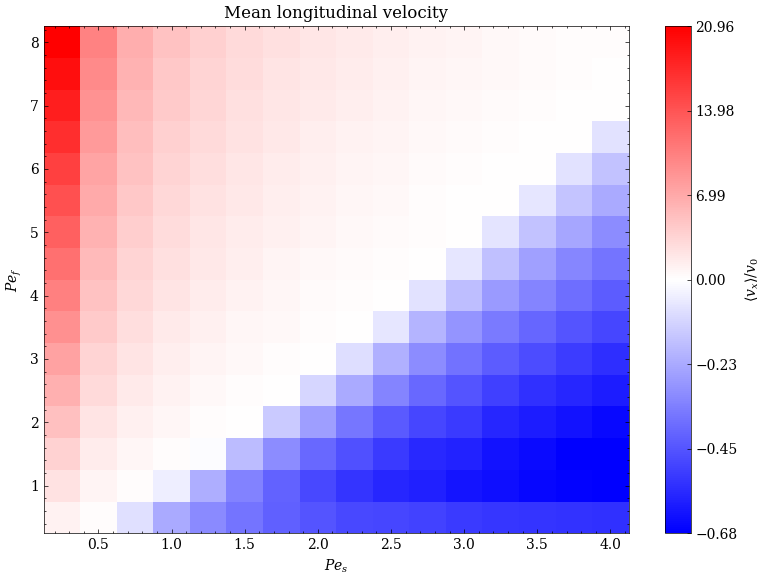
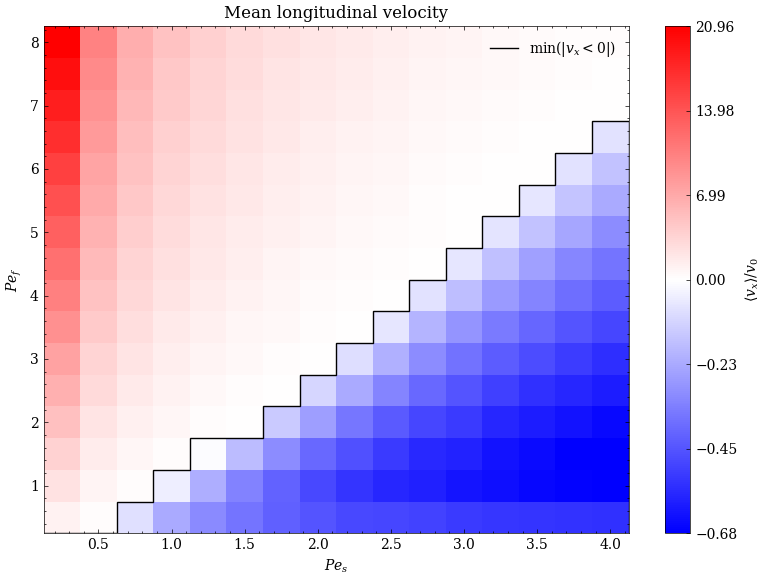
added bulk time validation to abp_trap

diff --git a/abp_analysis.py b/abp_analysis.py
@@ -178,10 +178,32 @@ def phase_diagram_vx(filename):
     plt.ylabel("$Pe_f$")
 
     # Plot values as text
-    for Ps, Pf, vx in zip(x, y, mean_vx):
-        #if Pf == (2 * Ps - 1):
-        plt.text(Ps, Pf, f"{np.round(vx, 3)}", ha='center', va='center', fontsize=8)
+    #for Ps, Pf, vx in zip(x, y, mean_vx):
+    #    #if Pf == (2 * Ps - 1):
+    #    plt.text(Ps, Pf, f"{np.round(vx, 3)}", ha='center', va='center', fontsize=8)
 
+    # Plot boundary between upstream/downstream swimming
+    inc = (y[1] - y[0]) * 0.5
+    Ps_list = np.sort(np.unique(x))
+    dPs = Ps_list[1] - Ps_list[0]
+    edges = np.concatenate(([Ps_list[0] - dPs/2], Ps_list + dPs/2))
+    Pf_stairs = np.full(len(Ps_list), inc)
+    i = -1
+
+    for Ps in Ps_list:
+        i += 1
+        mvx_list = mean_vx[x == Ps]
+        Pf_list = y[x == Ps]
+        nmvx_list = mvx_list[mvx_list <= 0]
+        if len(nmvx_list) > 0:
+            max_nmvx = np.max(nmvx_list)
+            Pf = Pf_list[mvx_list == max_nmvx][0]
+            Pf_stairs[i] = Pf + inc
+
+    plt.stairs(Pf_stairs, edges, color='black', label='min($|v_x < 0|$)')
+    plt.ylim(bottom=inc)
+
+    plt.legend()
     plt.tight_layout()
     plt.show()
 
@@ -222,8 +244,6 @@ def phase_diagram_alpha(filename):
 
     plt.tight_layout()
     plt.show()
-
-
 
 def phase_diagram_beta_Deff(filename):
     """
@@ -318,11 +338,32 @@ def phase_diagram_tau(filename):
     # Generate labelling for ratio of taus
     title_ratio = "Characteristic trapping:bulk time ratio"
     label_ratio = r"$\tau_t/\tau_b$"
-    # Normalise divergent colormap
-    #norm_ratio = colors.TwoSlopeNorm(vmin=(tauTTD/tauBTD).min(), vcenter=0.5, vmax=(tauTTD/tauBTD).max())
     # Plot ratio of characteristic trapping to bulk times
-    plot(tauTTD/tauBTD, 'rainbow', 'log', title_ratio, label_ratio)
+    fig = plt.figure(figsize=[8, 6])
+    plt.title(f"{title_ratio}")
+    plt.pcolormesh(X, Y, tauTTD/tauBTD, cmap='rainbow', norm='log', shading='auto')
+    cbar = plt.colorbar(label=label_ratio)
+    plt.xlabel("$Pe_s$")
+    plt.ylabel("$Pe_f$")
 
+    # Draw Ps = Pf line and mark unit ratio phase points
+    Ps_list = []
+    Pf_list = []
+    Ps_ratio_1 = []
+    Pf_ratio_1 = []
+    for i in range(len(x)):
+        if x[i] == y[i]:
+            Ps_list.append(x[i])
+            Pf_list.append(y[i])
+        if np.round(tau_ttd[i]/tau_btd[i], 0) == 1:
+            Ps_ratio_1.append(x[i])
+            Pf_ratio_1.append(y[i])
+
+    plt.plot(Ps_list, Pf_list, color='black', label='$Pe_s = Pe_f$')
+    plt.scatter(Ps_ratio_1, Pf_ratio_1, marker='+', color='black', s=20, label=r'$\tau_t/\tau_b \approx 1$')
+
+    plt.legend()
+    plt.tight_layout()
     plt.show()
 
 def pd3_comparison(filename1, filename2, filename3):

diff --git a/workstation/array/abp_trap.py b/workstation/array/abp_trap.py
@@ -290,6 +290,8 @@ class ABPTrap:
         # Initialise trapping/bulk time output files
         open(trap_file, 'w')
         open(bulk_file, 'w')
+        # Only track bulk times after completing first trap
+        valid_bulk = np.full(self.N, False)
         # Get number of decimal places for rounding output
         dec_places = len(str(self.dt).split('.')[1])
 
@@ -317,10 +319,14 @@ class ABPTrap:
                         f.write(f"{np.round(trap, dec_places)}\n")
 
                     # Calculate bulk time
-                    bulk = (B_timer[n] - T_timer[n]) * self.dt
-                    # Save bulk time to file
-                    with open(bulk_file, 'a') as f:
-                        f.write(f"{np.round(bulk, dec_places)}\n")
+                    if valid_bulk[n]:
+                        bulk = (B_timer[n] - T_timer[n]) * self.dt
+                        # Save bulk time to file
+                        with open(bulk_file, 'a') as f:
+                            f.write(f"{np.round(bulk, dec_places)}\n")
+                    # Validate bulk measurements
+                    else:
+                        valid_bulk[n] = True
 
                     # Reset trap and bulk timers
                     T_timer[n] = 0

diff --git a/workstation/array/test.py b/workstation/array/test.py
@@ -3,5 +3,5 @@ import numpy as np
 import os
 
 
-x = [2, 1, 3]
-print(np.argsort(x) * 0.5)
+x = [2, 1, 3, 2, 2.5]
+print(np.sort(np.unique(x)))
